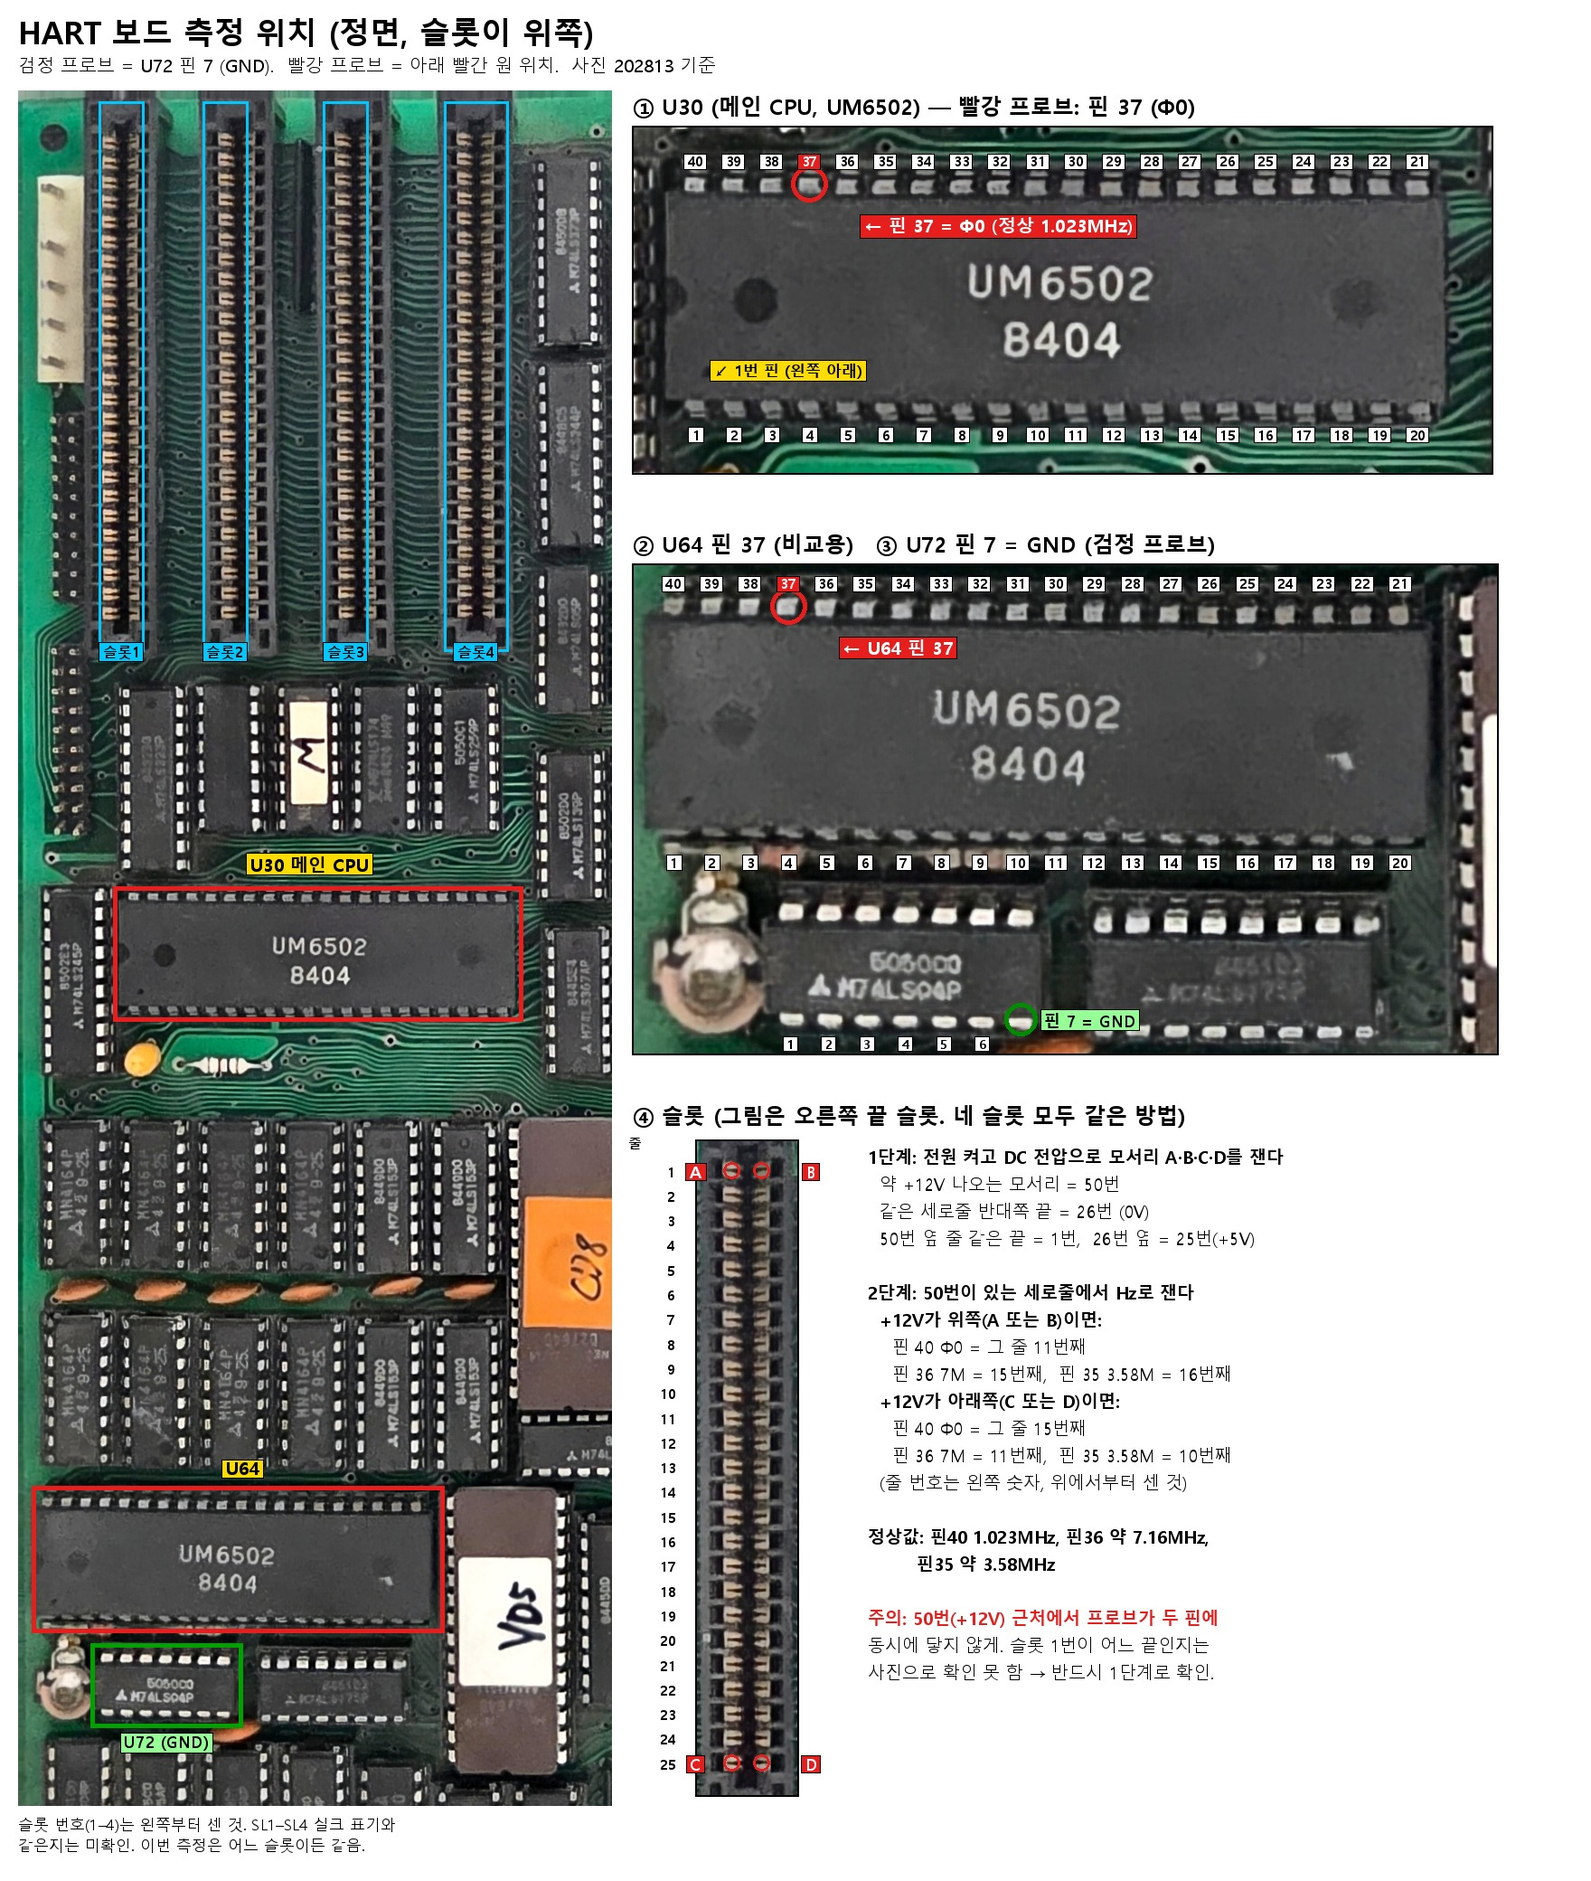
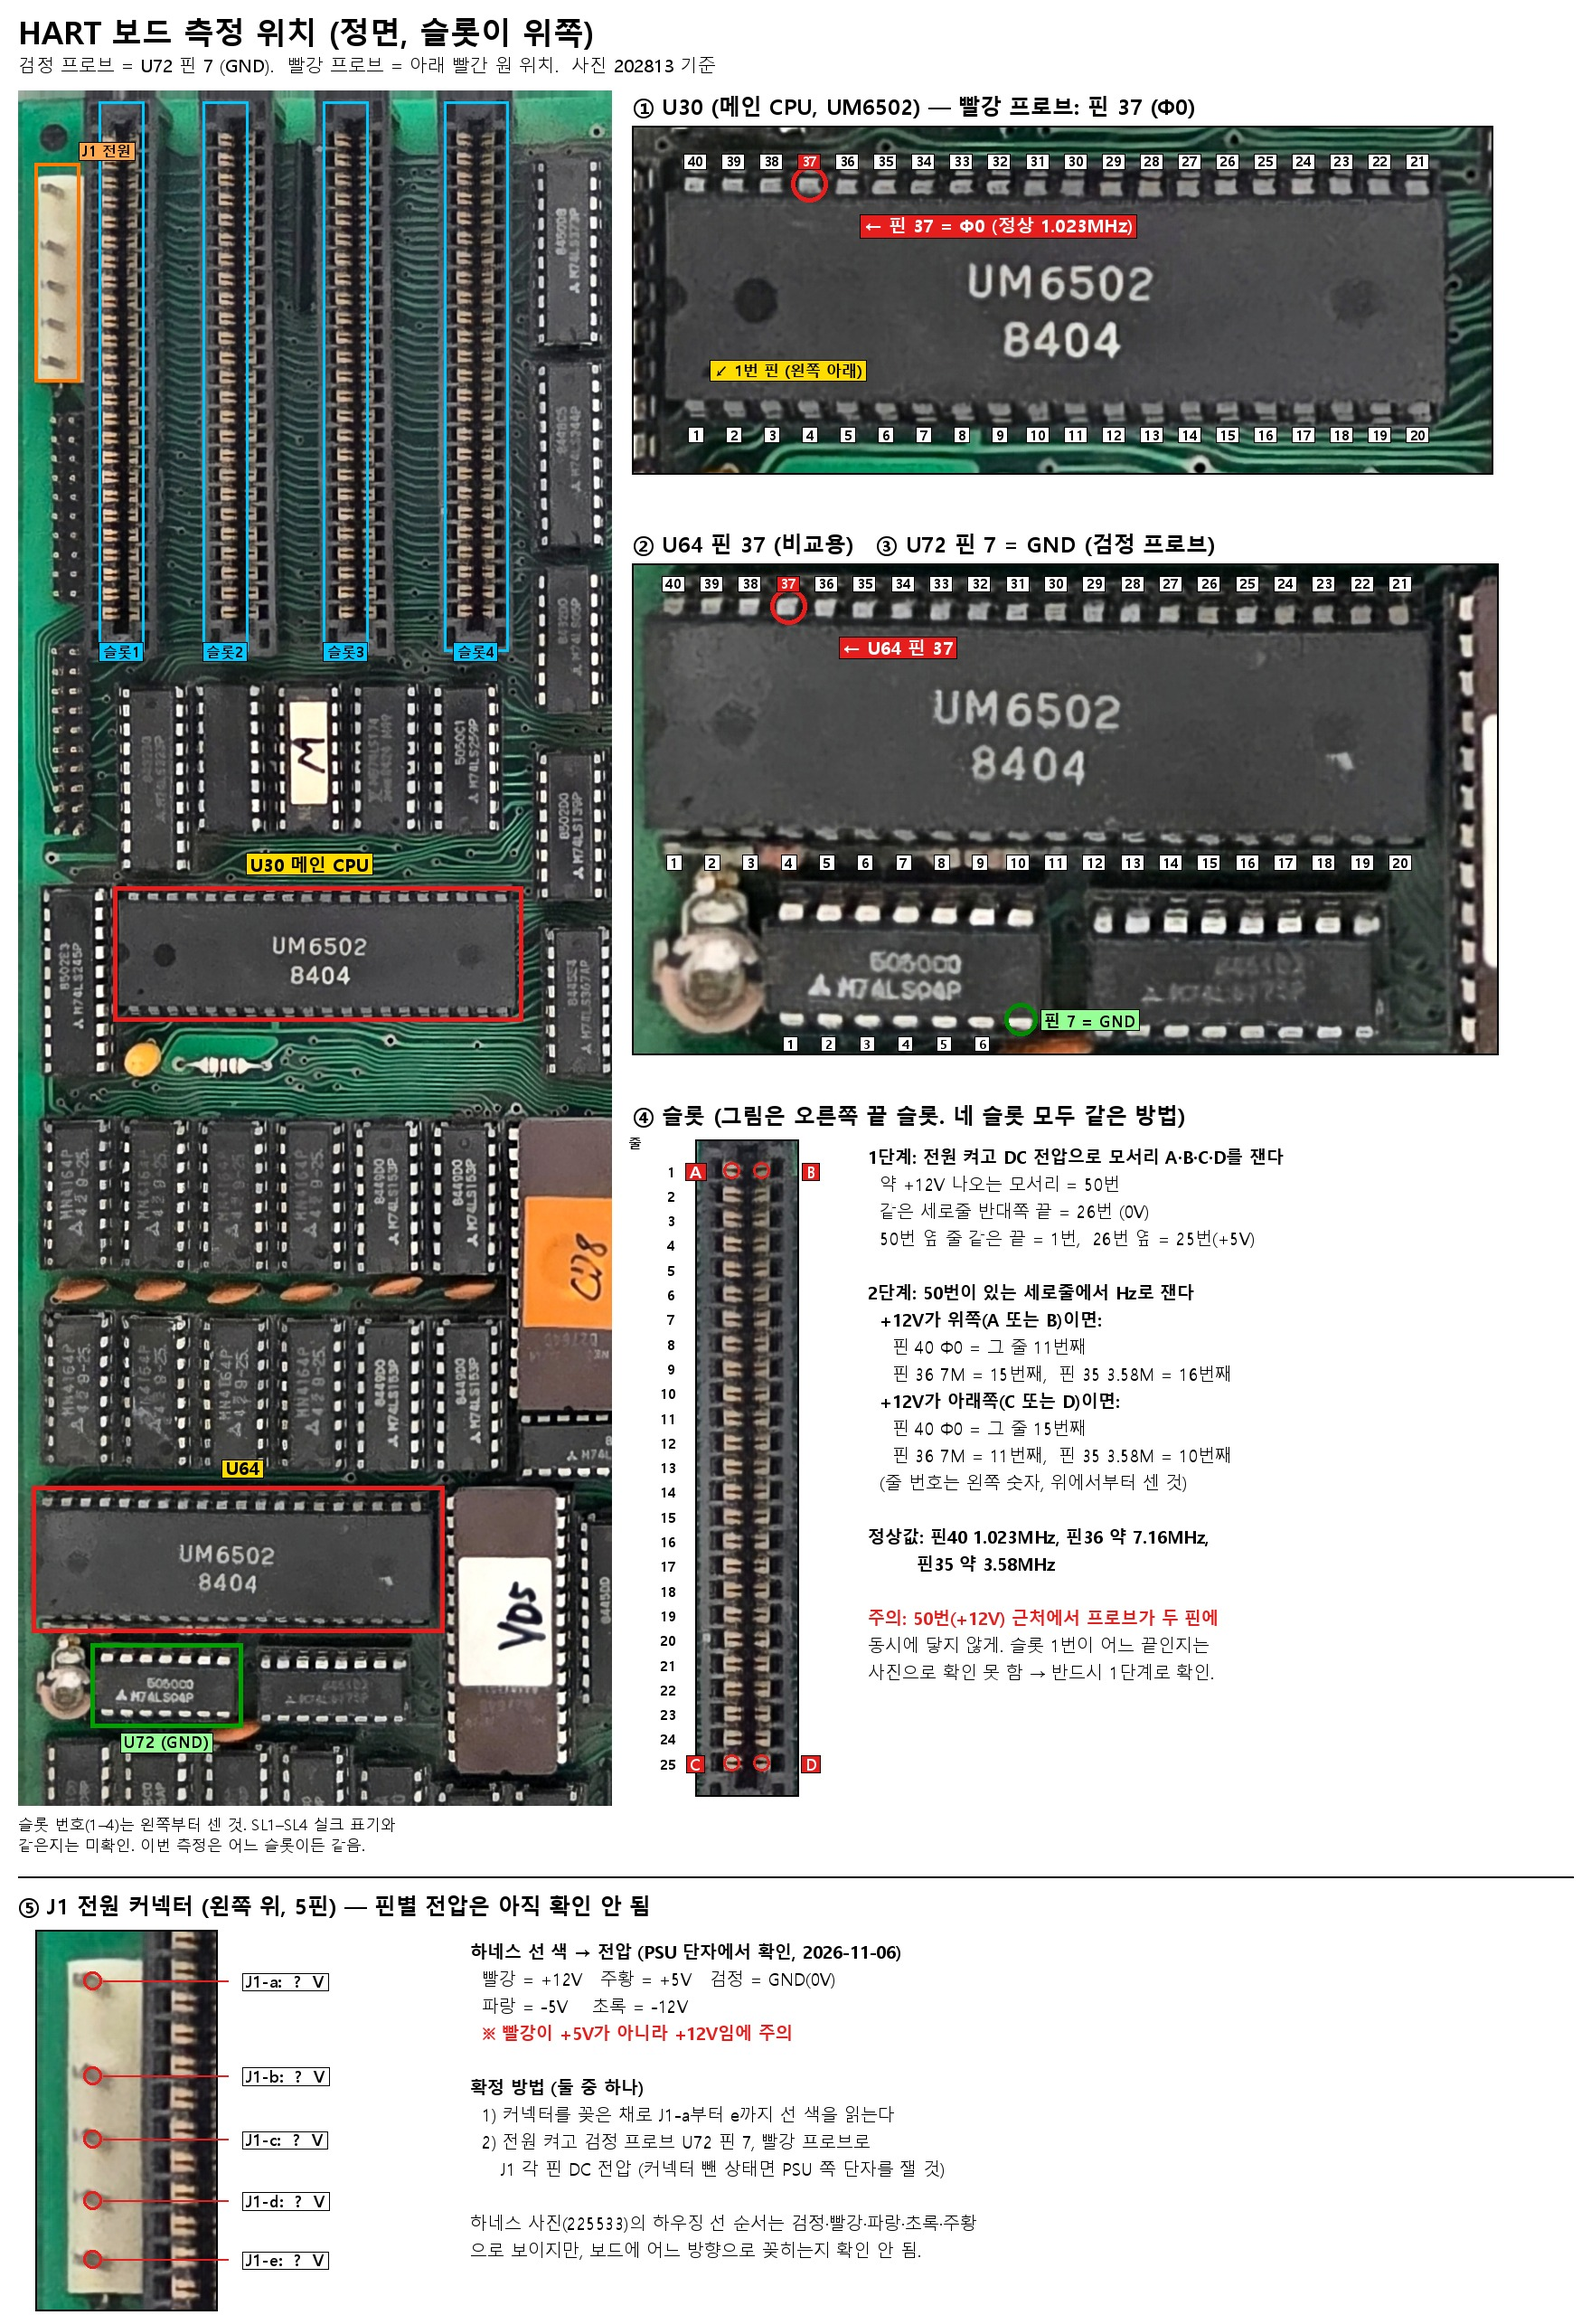
측정 위치 그림에 J1 전원 커넥터 추가 (핀별 전압 미확인)

diff --git a/tools/annotate_measure_points.py b/tools/annotate_measure_points.py
@@ -14,7 +14,7 @@ YEL = (255, 220, 0)
 CYAN = (0, 200, 255)
 WHITE = (255, 255, 255)
 
-W, H = 1760, 2080
+W, H = 1760, 2560
 cv = Image.new("RGB", (W, H), WHITE)
 d = ImageDraw.Draw(cv)
 
@@ -153,6 +153,39 @@ yy = ys + 50
 for t, b in lines:
     d.text((tx, yy), t, font=font(19, b), fill=RED if t.startswith("주의") else BLK)
     yy += 30
+
+# ---------- J1 power connector ----------
+j1_pins = [175, 280, 350, 418, 483]  # orig y, x ~ 62
+obox(30, 130, 110, 520, (255, 120, 0), 4)
+label(d, O(115, 120), "J1 전원", 16, anchor="lb", bg=(255, 170, 80))
+
+yj = 2090
+d.line((20, yj - 15, W - 20, yj - 15), fill=BLK, width=2)
+d.text((20, yj), "⑤ J1 전원 커넥터 (왼쪽 위, 5핀) — 핀별 전압은 아직 확인 안 됨", font=font(24, True), fill=BLK)
+MJ = inset((0, 120, 200, 540), 1.0, (40, yj + 45))
+for i, y in enumerate(j1_pins):
+    cx, cy = MJ(62, y)
+    d.ellipse((cx-10, cy-10, cx+10, cy+10), outline=RED, width=3)
+    label(d, (cx + 170, cy), f"J1-{'abcde'[i]}:  ?  V", 18, bg=WHITE, anchor="lm")
+    d.line((cx + 12, cy, cx + 150, cy), fill=RED, width=2)
+jt = [
+    ("하네스 선 색 → 전압 (PSU 단자에서 확인, 2026-11-06)", True),
+    ("  빨강 = +12V   주황 = +5V   검정 = GND(0V)", False),
+    ("  파랑 = -5V    초록 = -12V", False),
+    ("  ※ 빨강이 +5V가 아니라 +12V임에 주의", True),
+    ("", False),
+    ("확정 방법 (둘 중 하나)", True),
+    ("  1) 커넥터를 꽂은 채로 J1-a부터 e까지 선 색을 읽는다", False),
+    ("  2) 전원 켜고 검정 프로브 U72 핀 7, 빨강 프로브로", False),
+    ("     J1 각 핀 DC 전압 (커넥터 뺀 상태면 PSU 쪽 단자를 잴 것)", False),
+    ("", False),
+    ("하네스 사진(225533)의 하우징 선 순서는 검정·빨강·파랑·초록·주황", False),
+    ("으로 보이지만, 보드에 어느 방향으로 꽂히는지 확인 안 됨.", False),
+]
+yy2 = yj + 55
+for t, b in jt:
+    d.text((520, yy2), t, font=font(19, b), fill=RED if t.startswith("  ※") else BLK)
+    yy2 += 30
 
 cv.save(OUT, quality=92)
 print(cv.size, yy)
